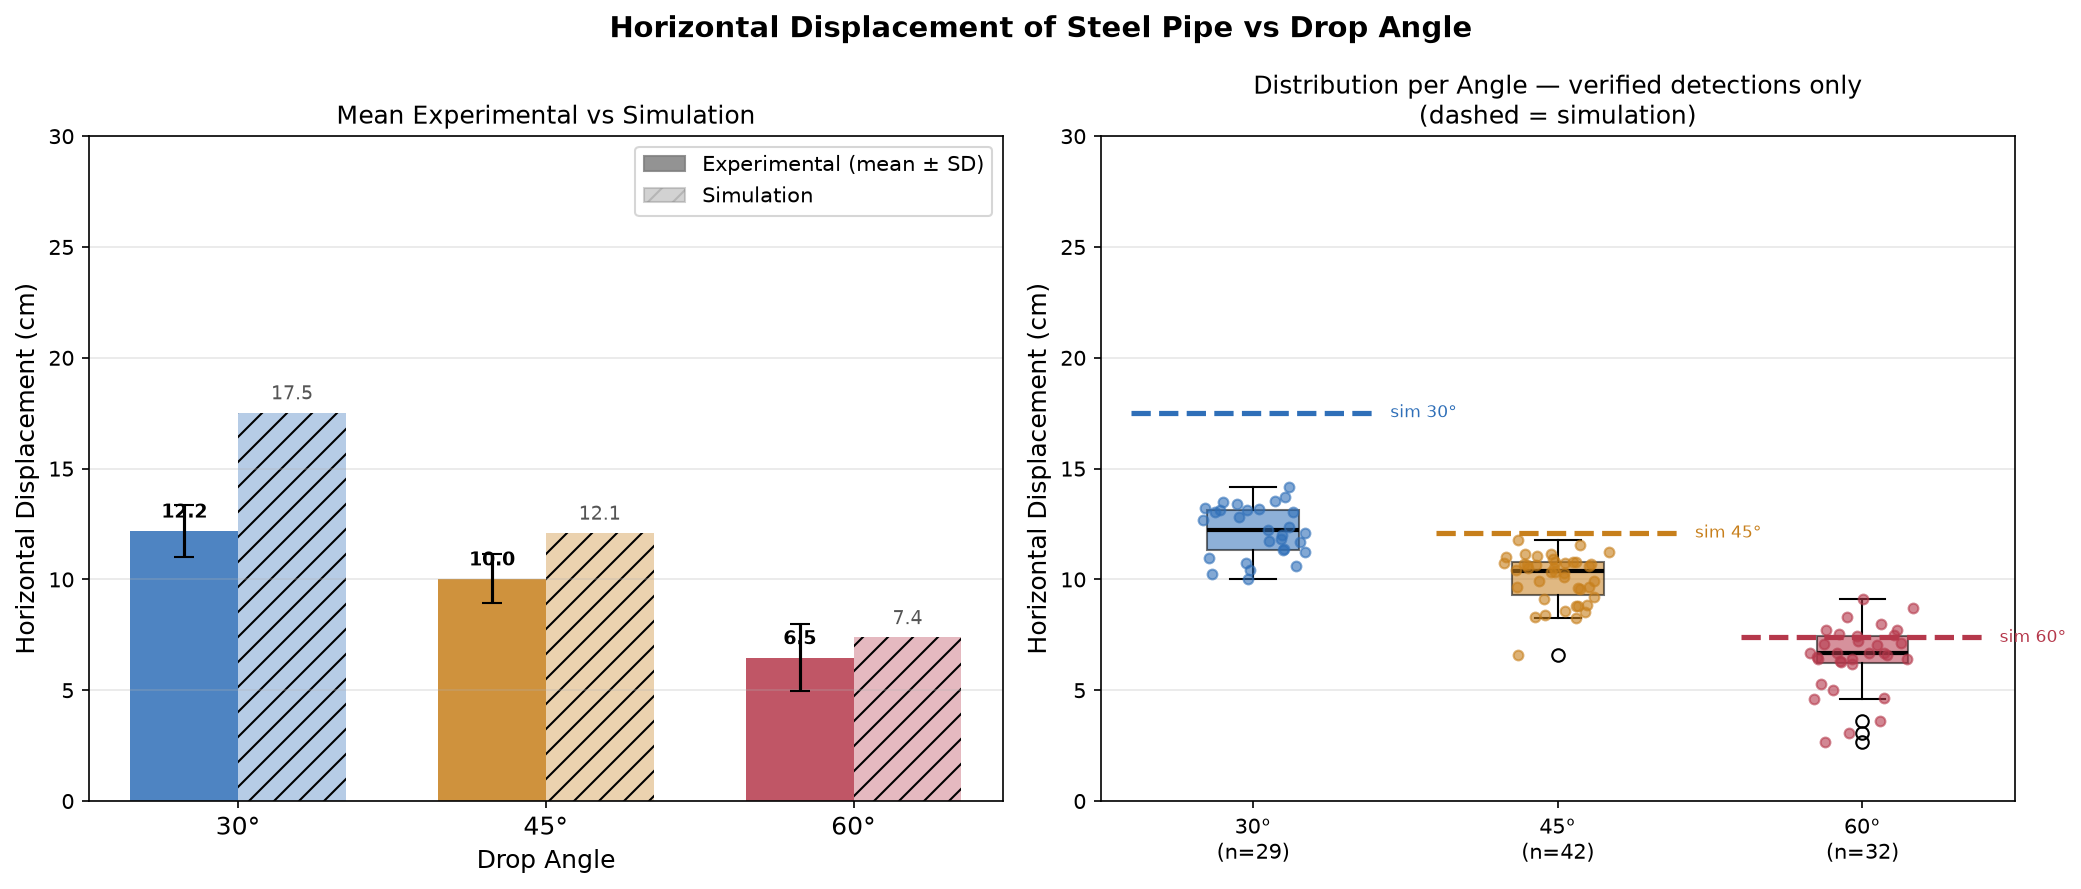
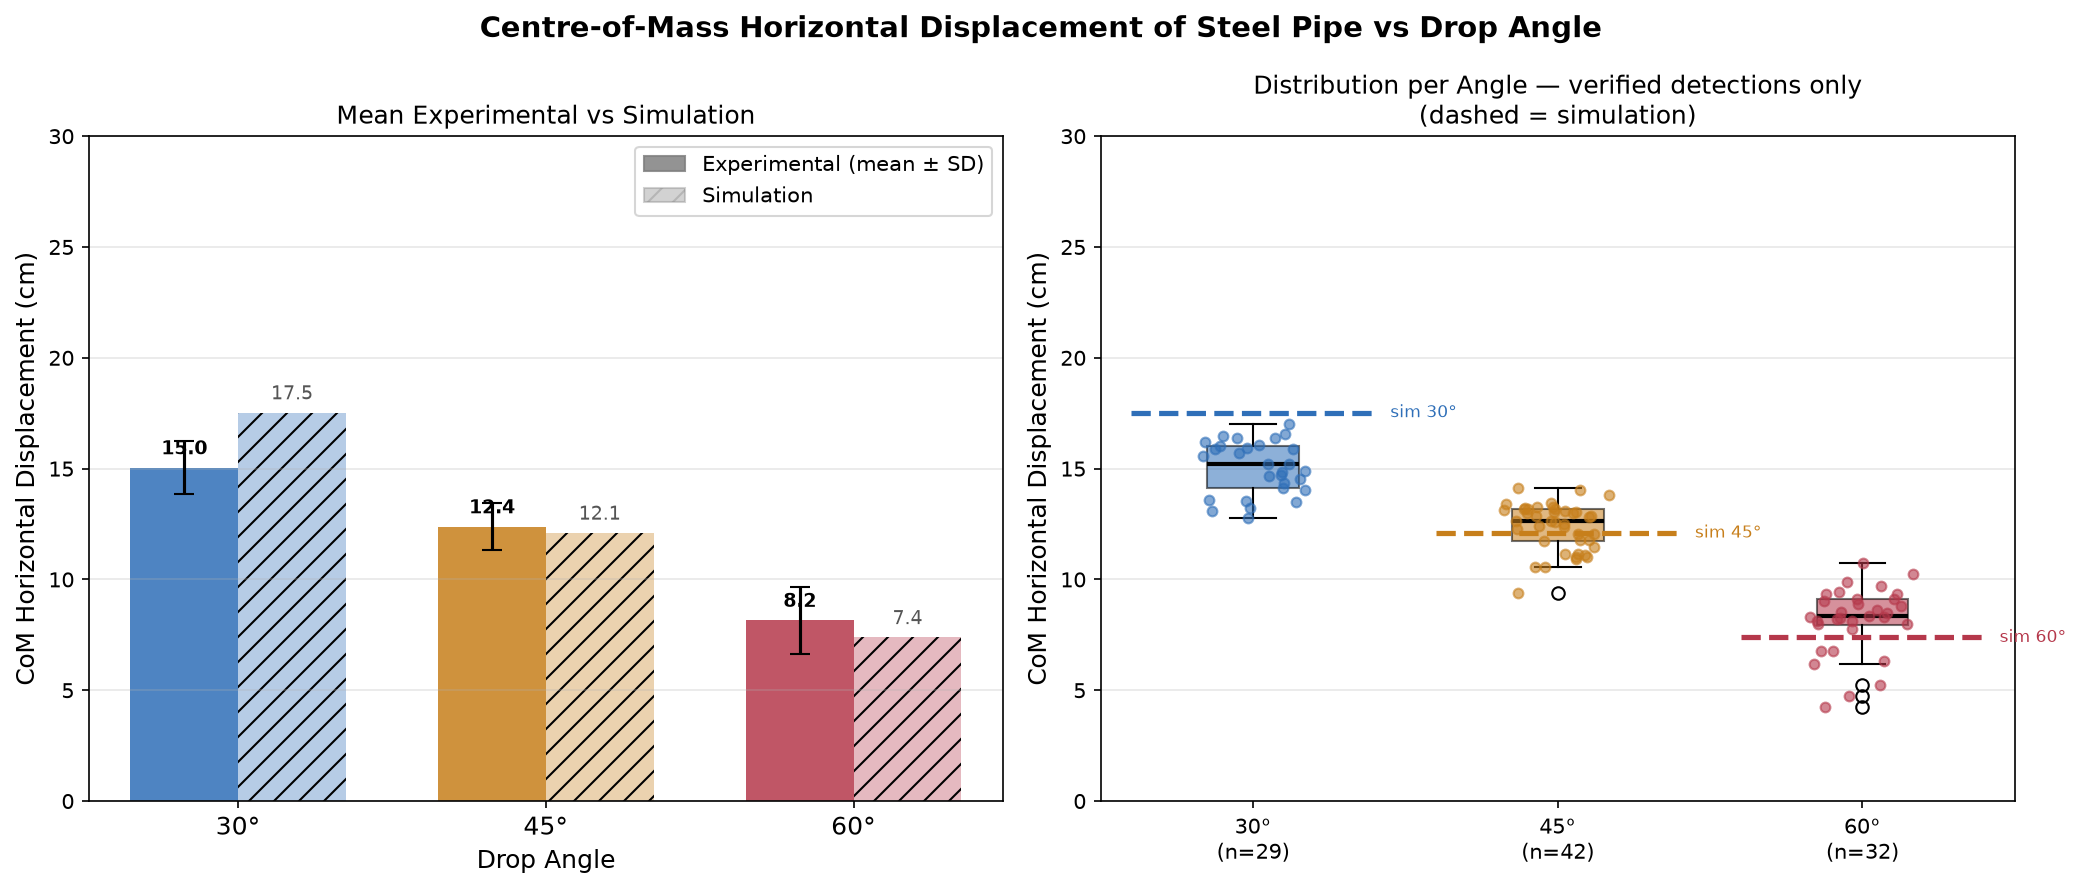
CoM-to-CoM displacement convention
The raw measurement mixed body references: entry was the nose-pierce
point, contact the pipe centroid.  At nose-touch the CoM sits
(L/2)*cos(theta_entry) up-ramp of the pierce point, so raw displacements
understate CoM displacement by 1.7-2.9 cm.

- apply_com_correction.py: results.csv + entry_angles.csv -> results_com.csv
  (per-video measured entry angle; group mean for outliers)
- plot_comparison / plot_distribution read the corrected data
- trace_trajectory overlay: ruler zero and displacement labels are CoM-based;
  entry dot/angle line stay at the pierce anchor (angle measurement point)

Corrected means vs sim: 30deg 15.0 vs 17.5 (+16%), 45deg 12.4 vs 12.1
(-2%), 60deg 8.2 vs 7.4 (-10%).

diff --git a/tools/apply_com_correction.py b/tools/apply_com_correction.py
@@ -1,0 +1,96 @@
+"""
+apply_com_correction.py
+=======================
+Convert raw displacements (nose-pierce -> centroid) to centre-of-mass
+displacements (CoM -> CoM), matching the simulation's reference frame.
+
+At the instant the nose touches the water, the pipe's CoM sits (L/2)*cos(theta)
+up-ramp of the pierce point (L = 7.62 cm, theta = measured entry angle).  The
+simulation's displacement origin is the CoM at that instant, so the raw
+measurement understates CoM displacement by exactly that offset:
+
+    disp_com = disp_raw + (L/2) * cos(theta_entry)
+
+Per-video measured entry angles come from entry_angles.csv; videos whose angle
+measurement failed or was an outlier (|residual| > 12 deg) fall back to their
+group's mean measured angle.
+
+Run from the ExperimentalVideos folder (after analyze_videos.py and
+batch_entry_angles.py):
+    python C:/Users/micha/DroppedSim/tools/apply_com_correction.py
+
+Writes results_com.csv.
+"""
+
+import csv
+import sys
+import numpy as np
+
+if hasattr(sys.stdout, "reconfigure"):
+    sys.stdout.reconfigure(encoding="utf-8", errors="replace")
+
+RESULTS_CSV = "results.csv"
+ANGLES_CSV  = "entry_angles.csv"
+OUT_CSV     = "results_com.csv"
+
+HALF_LENGTH_CM = 7.62 / 2.0   # 3 inch pipe
+RESID_CUTOFF   = 12.0         # deg — beyond this the angle measurement failed
+
+
+def main():
+    # Measured entry angles per video, plus group means of the good ones
+    angles, good_by_group = {}, {}
+    with open(ANGLES_CSV) as f:
+        for r in csv.DictReader(f):
+            if r["measured_angle_deg"] in ("ERROR", ""):
+                continue
+            meas = float(r["measured_angle_deg"])
+            pred = float(r["predicted_angle_deg"])
+            ramp = int(r["ramp_angle_deg"])
+            ok   = abs(meas - pred) <= RESID_CUTOFF
+            angles[r["filename"]] = (meas, ok)
+            if ok:
+                good_by_group.setdefault(ramp, []).append(meas)
+
+    group_mean = {a: sum(v) / len(v) for a, v in good_by_group.items()}
+    print("Group mean measured entry angles:",
+          {a: round(m, 1) for a, m in group_mean.items()})
+
+    rows_out = []
+    with open(RESULTS_CSV) as f:
+        for r in csv.DictReader(f):
+            row = {
+                "filename":  r["filename"],
+                "angle_deg": r["angle_deg"],
+                "displacement_raw_cm": r["displacement_cm"],
+                "entry_angle_used_deg": "",
+                "com_offset_cm": "",
+                "displacement_com_cm": "ERROR",
+                "x_entry_px":   r["x_entry_px"],
+                "x_contact_px": r["x_contact_px"],
+            }
+            if r["displacement_cm"] != "ERROR":
+                ramp = int(r["angle_deg"])
+                meas, ok = angles.get(r["filename"], (None, False))
+                theta = meas if (meas is not None and ok) else group_mean[ramp]
+                offset = HALF_LENGTH_CM * np.cos(np.radians(theta))
+                row["entry_angle_used_deg"] = round(theta, 1)
+                row["com_offset_cm"]        = round(offset, 2)
+                row["displacement_com_cm"]  = round(
+                    float(r["displacement_cm"]) + offset, 2)
+            rows_out.append(row)
+
+    fields = ["filename", "angle_deg", "displacement_raw_cm",
+              "entry_angle_used_deg", "com_offset_cm", "displacement_com_cm",
+              "x_entry_px", "x_contact_px"]
+    with open(OUT_CSV, "w", newline="") as f:
+        w = csv.DictWriter(f, fieldnames=fields)
+        w.writeheader()
+        w.writerows(rows_out)
+
+    ok_n = sum(1 for r in rows_out if r["displacement_com_cm"] != "ERROR")
+    print(f"Wrote {OUT_CSV}: {ok_n}/{len(rows_out)} corrected rows.")
+
+
+if __name__ == "__main__":
+    main()

diff --git a/tools/trace_trajectory.py b/tools/trace_trajectory.py
@@ -49,6 +49,7 @@ ENTRY_BGR   = (0, 255, 255)   # yellow entry marker
 CONTACT_BGR = (0, 80, 255)    # red contact marker
 RULER_BGR   = (255, 255, 255) # ruler ticks and labels
 LAND_BGR    = (0, 210, 0)     # projected straight-line landing marker
+HALF_LENGTH_CM = 7.62 / 2.0   # pipe half-length: CoM sits this far up-axis of the nose
 DEBUG_WIN   = "Trajectory (q = quit)"
 
 
@@ -223,7 +224,7 @@ def dashed_segment(disp, p0, p1, color, dash=10, gap=8, thickness=1):
 
 
 def draw_entry_angle(disp, x0, y_surface, angle_deg, y_bottom=None,
-                     px_per_cm=None):
+                     px_per_cm=None, x_ref=None):
     """
     Short indicator line at the measured pipe-axis angle, pivoted on entry.
     If y_bottom is given, the line is extended (dashed) to the tank floor and
@@ -252,7 +253,8 @@ def draw_entry_angle(disp, x0, y_surface, angle_deg, y_bottom=None,
                    ENTRY_BGR, thickness=2)
     cv2.circle(disp, (x_land, y_bottom), 9, LAND_BGR, -1)
     if px_per_cm:
-        cv2.putText(disp, f"{(x_land - x0) / px_per_cm:.2f} cm",
+        ref = x_ref if x_ref is not None else x0
+        cv2.putText(disp, f"{(x_land - ref) / px_per_cm:.2f} cm",
                     (x_land + 12, y_bottom - 34),
                     cv2.FONT_HERSHEY_SIMPLEX, 0.7, LAND_BGR, 2, cv2.LINE_AA)
     cv2.putText(disp, "straight-line landing",
@@ -328,6 +330,15 @@ def trace_video(video_path, calib, debug=False, video_out=None,
     tank_h      = y_bottom - y_surface
 
     CONTACT_WALL_MARGIN_PX = 40
+
+    # CoM entry origin: at nose-touch the centre of mass sits
+    # (L/2)*cos(theta) up-ramp of the pierce point.  All displacement
+    # readouts are CoM-to-CoM (matching results_com.csv and the sim).
+    if entry_angle is not None:
+        com_offset_px = HALF_LENGTH_CM * np.cos(np.radians(entry_angle)) * px_per_cm
+        com_offset_cm = HALF_LENGTH_CM * np.cos(np.radians(entry_angle))
+    else:
+        com_offset_px = com_offset_cm = 0.0
 
     def plausible_contact(cx_):
         if x_entry is not None and cx_ > x_entry + int(25 * px_per_cm):
@@ -475,6 +486,8 @@ def trace_video(video_path, calib, debug=False, video_out=None,
             at_pierce = (entry_frame is not None and frame_idx >= entry_frame)
             ruler_x0 = (path_px[0][0] if path_px
                         else (entry_anchor_x if at_pierce else None))
+            if ruler_x0 is not None:
+                ruler_x0 = int(ruler_x0 - com_offset_px)
             draw_rulers(disp, x_tank_left, x_tank_right, y_surface, y_bottom,
                         px_per_cm, x_origin=ruler_x0)
             if len(path_px) >= 2:
@@ -494,7 +507,7 @@ def trace_video(video_path, calib, debug=False, video_out=None,
                 dashed_vline(disp, path_px[-1][0], path_px[-1][1], y_bottom,
                              color=TRACE_BGR)
                 draw_entry_angle(disp, angle_anchor, y_surface, entry_angle, y_bottom,
-                                 px_per_cm)
+                                 px_per_cm, x_ref=angle_anchor - com_offset_px)
             elif at_pierce and entry_anchor_x is not None:
                 # Pipe is piercing the surface but the trail hasn't started —
                 # anchor the axis line where the angle pass tracked the pipe
@@ -502,7 +515,8 @@ def trace_video(video_path, calib, debug=False, video_out=None,
                 # still be latched onto slosh elsewhere in the tank)
                 cv2.circle(disp, (entry_anchor_x, y_surface), 8, ENTRY_BGR, 2)
                 draw_entry_angle(disp, entry_anchor_x, y_surface, entry_angle,
-                                 y_bottom, px_per_cm)
+                                 y_bottom, px_per_cm,
+                                 x_ref=entry_anchor_x - com_offset_px)
             if nose:
                 cv2.circle(disp, nose, 5, (0, 255, 0), 1)   # raw detection
             cv2.putText(disp, f"frame {frame_idx}  pts={len(path_px)}", (8, 26),
@@ -536,15 +550,15 @@ def trace_video(video_path, calib, debug=False, video_out=None,
             cv2.polylines(disp, [pts], False, TRACE_BGR, 2, cv2.LINE_AA)
             cv2.line(disp, (0, y_surface), (disp.shape[1], y_surface), ENTRY_BGR, 1)
             draw_rulers(disp, x_tank_left, x_tank_right, y_surface, y_bottom,
-                        px_per_cm, x_origin=path_px[0][0])
+                        px_per_cm, x_origin=int(path_px[0][0] - com_offset_px))
             anchor = entry_anchor_x if entry_anchor_x is not None else path_px[0][0]
             cv2.circle(disp, (anchor, y_surface), 8, ENTRY_BGR, 2)
             cv2.circle(disp, tuple(path_px[-1]), 9, CONTACT_BGR, -1)
             dashed_vline(disp, path_px[-1][0], path_px[-1][1], y_bottom,
                          color=TRACE_BGR)
             draw_entry_angle(disp, anchor, y_surface, entry_angle, y_bottom,
-                             px_per_cm)
-            disp_cm = abs(path_px[-1][0] - x_entry) / px_per_cm
+                             px_per_cm, x_ref=anchor - com_offset_px)
+            disp_cm = abs(path_px[-1][0] - x_entry) / px_per_cm + com_offset_cm
             cv2.putText(disp, f"{disp_cm:.2f} cm",
                         (path_px[-1][0] + 16, path_px[-1][1] - 14),
                         cv2.FONT_HERSHEY_SIMPLEX, 0.8, TRACE_BGR, 2, cv2.LINE_AA)
@@ -561,15 +575,15 @@ def trace_video(video_path, calib, debug=False, video_out=None,
             cv2.polylines(disp, [pts], False, TRACE_BGR, 2, cv2.LINE_AA)
             cv2.line(disp, (0, y_surface), (disp.shape[1], y_surface), ENTRY_BGR, 1)
             draw_rulers(disp, x_tank_left, x_tank_right, y_surface, y_bottom,
-                        px_per_cm, x_origin=path_px[0][0])
+                        px_per_cm, x_origin=int(path_px[0][0] - com_offset_px))
             anchor = entry_anchor_x if entry_anchor_x is not None else path_px[0][0]
             cv2.circle(disp, (anchor, y_surface), 8, ENTRY_BGR, 2)
             cv2.circle(disp, tuple(path_px[-1]), 9, CONTACT_BGR, -1)
             dashed_vline(disp, path_px[-1][0], path_px[-1][1], y_bottom,
                          color=TRACE_BGR)
             draw_entry_angle(disp, anchor, y_surface, entry_angle, y_bottom,
-                             px_per_cm)
-            disp_cm = abs(path_px[-1][0] - x_entry) / px_per_cm
+                             px_per_cm, x_ref=anchor - com_offset_px)
+            disp_cm = abs(path_px[-1][0] - x_entry) / px_per_cm + com_offset_cm
             cv2.putText(disp, f"{disp_cm:.2f} cm",
                         (path_px[-1][0] + 16, path_px[-1][1] - 14),
                         cv2.FONT_HERSHEY_SIMPLEX, 0.8, TRACE_BGR, 2, cv2.LINE_AA)
@@ -627,22 +641,29 @@ def save_trace_image(trace, out_path, calib=None):
     # Water surface line
     cv2.line(disp, (0, y_surf), (w, y_surf), ENTRY_BGR, 1)
 
-    # cm rulers: depth on the left wall, displacement-from-entry on the floor
+    # cm rulers: depth on the left wall, CoM displacement on the floor
     if calib is not None:
         origin = trace["path_px"][0][0] if trace["path_px"] else trace["x_entry_px"]
+        ang = trace.get("entry_angle")
+        off_px = (HALF_LENGTH_CM * np.cos(np.radians(ang)) * trace["px_per_cm"]
+                  if ang is not None else 0.0)
         draw_rulers(disp, calib.get("x_tank_left", 0), calib.get("x_tank_right"),
                     y_surf, trace["y_bottom_px"], trace["px_per_cm"],
-                    x_origin=origin)
+                    x_origin=int(origin - off_px))
         anchor = trace.get("entry_anchor_x")
-        draw_entry_angle(disp, anchor if anchor is not None else origin,
-                         y_surf, trace.get("entry_angle"),
+        pivot  = anchor if anchor is not None else origin
+        draw_entry_angle(disp, pivot, y_surf, ang,
                          y_bottom=trace["y_bottom_px"],
-                         px_per_cm=trace["px_per_cm"])
+                         px_per_cm=trace["px_per_cm"],
+                         x_ref=pivot - off_px)
     if len(trace["path_px"]) >= 2:
         lastp = trace["path_px"][-1]
         dashed_vline(disp, lastp[0], lastp[1], trace["y_bottom_px"],
                      color=TRACE_BGR)
-        disp_cm = (abs(lastp[0] - trace["x_entry_px"]) / trace["px_per_cm"])
+        ang = trace.get("entry_angle")
+        off_cm = (HALF_LENGTH_CM * np.cos(np.radians(ang))
+                  if ang is not None else 0.0)
+        disp_cm = (abs(lastp[0] - trace["x_entry_px"]) / trace["px_per_cm"]) + off_cm
         cv2.putText(disp, f"{disp_cm:.2f} cm", (lastp[0] + 16, lastp[1] - 14),
                     cv2.FONT_HERSHEY_SIMPLEX, 0.8, TRACE_BGR, 2, cv2.LINE_AA)
 

diff --git a/tools/plot_comparison.py b/tools/plot_comparison.py
@@ -31,7 +31,7 @@ with warnings.catch_warnings():
     warnings.simplefilter("ignore")          # suppress DropTest's Agg override warning
     from DropTest import simulate_drop
 
-RESULTS_CSV = "results.csv"
+RESULTS_CSV = "results_com.csv"
 
 # Run the physics model fresh — no experimental data used here
 SIM = {a: simulate_drop(a)["displacement_cm"] for a in [30, 45, 60]}
@@ -46,15 +46,16 @@ valid = {a: [] for a in ANGLES}
 
 with open(RESULTS_CSV) as f:
     for row in csv.DictReader(f):
-        if row["displacement_cm"] == "ERROR":
+        if row["displacement_com_cm"] == "ERROR":
             continue
         angle = int(row["angle_deg"])
-        disp  = float(row["displacement_cm"])
+        disp  = float(row["displacement_com_cm"])
+        raw   = float(row["displacement_raw_cm"])
         xe    = int(row["x_entry_px"])
         xc    = int(row["x_contact_px"])
         if xc < xe:    # pipe moved backward — bad read
             continue
-        if disp > 25:  # safety net: physically implausible displacement
+        if raw > 25:   # safety net: physically implausible displacement
             continue
         if xe < 920:   # safety net: left-wall ripple false positive
             continue
@@ -63,7 +64,7 @@ with open(RESULTS_CSV) as f:
 # ── Figure ─────────────────────────────────────────────────────────────────────
 fig, (ax1, ax2) = plt.subplots(1, 2, figsize=(14, 6))
 fig.suptitle(
-    "Horizontal Displacement of Steel Pipe vs Drop Angle",
+    "Centre-of-Mass Horizontal Displacement of Steel Pipe vs Drop Angle",
     fontsize=14, fontweight="bold"
 )
 
@@ -94,7 +95,7 @@ for bar, val in zip(bars_sim, sim_vals):
 ax1.set_xticks(idx)
 ax1.set_xticklabels(["30°", "45°", "60°"], fontsize=12)
 ax1.set_xlabel("Drop Angle", fontsize=12)
-ax1.set_ylabel("Horizontal Displacement (cm)", fontsize=12)
+ax1.set_ylabel("CoM Horizontal Displacement (cm)", fontsize=12)
 ax1.set_title("Mean Experimental vs Simulation", fontsize=12)
 ax1.set_ylim(0, 30)
 ax1.grid(axis="y", alpha=0.3)
@@ -129,7 +130,7 @@ for i, a in enumerate(ANGLES, 1):
     ax2.text(i + 0.45, SIM[a], f"sim {a}°", va="center",
              fontsize=8, color=COLORS[a])
 
-ax2.set_ylabel("Horizontal Displacement (cm)", fontsize=12)
+ax2.set_ylabel("CoM Horizontal Displacement (cm)", fontsize=12)
 ax2.set_title("Distribution per Angle — verified detections only\n(dashed = simulation)", fontsize=12)
 ax2.set_ylim(0, 30)
 ax2.grid(axis="y", alpha=0.3)

diff --git a/tools/plot_distribution.py b/tools/plot_distribution.py
@@ -21,7 +21,7 @@ import matplotlib.pyplot as plt
 if hasattr(sys.stdout, "reconfigure"):
     sys.stdout.reconfigure(encoding="utf-8", errors="replace")
 
-RESULTS_CSV = "results.csv"
+RESULTS_CSV = "results_com.csv"
 OUT_PATH    = "displacement_scatter.png"
 
 COLORS = {30: "#2F6FB8", 45: "#C77F1B", 60: "#B5384B"}
@@ -31,13 +31,14 @@ ANGLES = [30, 45, 60]
 valid = {a: [] for a in ANGLES}
 with open(RESULTS_CSV) as f:
     for row in csv.DictReader(f):
-        if row["displacement_cm"] == "ERROR":
+        if row["displacement_com_cm"] == "ERROR":
             continue
         angle = int(row["angle_deg"])
-        disp  = float(row["displacement_cm"])
+        disp  = float(row["displacement_com_cm"])
+        raw   = float(row["displacement_raw_cm"])
         xe    = int(row["x_entry_px"])
         xc    = int(row["x_contact_px"])
-        if xc < xe or disp > 25 or xe < 920:
+        if xc < xe or raw > 25 or xe < 920:
             continue
         valid[angle].append(disp)
 
@@ -75,10 +76,10 @@ for i, a in enumerate(ANGLES, 1):
             color="#444444")
 
 ax.set_xlabel("Drop Angle", fontsize=13)
-ax.set_ylabel("Horizontal Displacement (cm)", fontsize=13)
-ax.set_title("Horizontal Displacement per Drop Angle — all valid trials",
+ax.set_ylabel("CoM Horizontal Displacement (cm)", fontsize=13)
+ax.set_title("Centre-of-Mass Displacement per Drop Angle — all valid trials",
              fontsize=13)
-ax.set_ylim(0, 16)
+ax.set_ylim(0, 20)
 ax.grid(axis="y", alpha=0.3, linestyle=":")
 ax.tick_params(labelsize=12)
 for spine in ("top", "right"):

diff --git a/tools/google_slides.py b/tools/google_slides.py
@@ -44,10 +44,15 @@ def get_service():
         creds = Credentials.from_authorized_user_file(TOKEN_FILE, SCOPES)
     if not creds or not creds.valid:
         if creds and creds.expired and creds.refresh_token:
-            creds.refresh(Request())
-        else:
+            try:
+                creds.refresh(Request())
+            except Exception:
+                # Test-mode refresh tokens expire after ~7 days — re-authorize
+                creds = None
+        if not creds or not creds.valid:
             if not os.path.exists(CREDENTIALS_FILE):
                 sys.exit(f"credentials.json not found at {CREDENTIALS_FILE}")
+            print("Google token expired — a browser window will open to re-authorize.")
             flow = InstalledAppFlow.from_client_secrets_file(CREDENTIALS_FILE, SCOPES)
             creds = flow.run_local_server(port=0)
         with open(TOKEN_FILE, "w") as f: